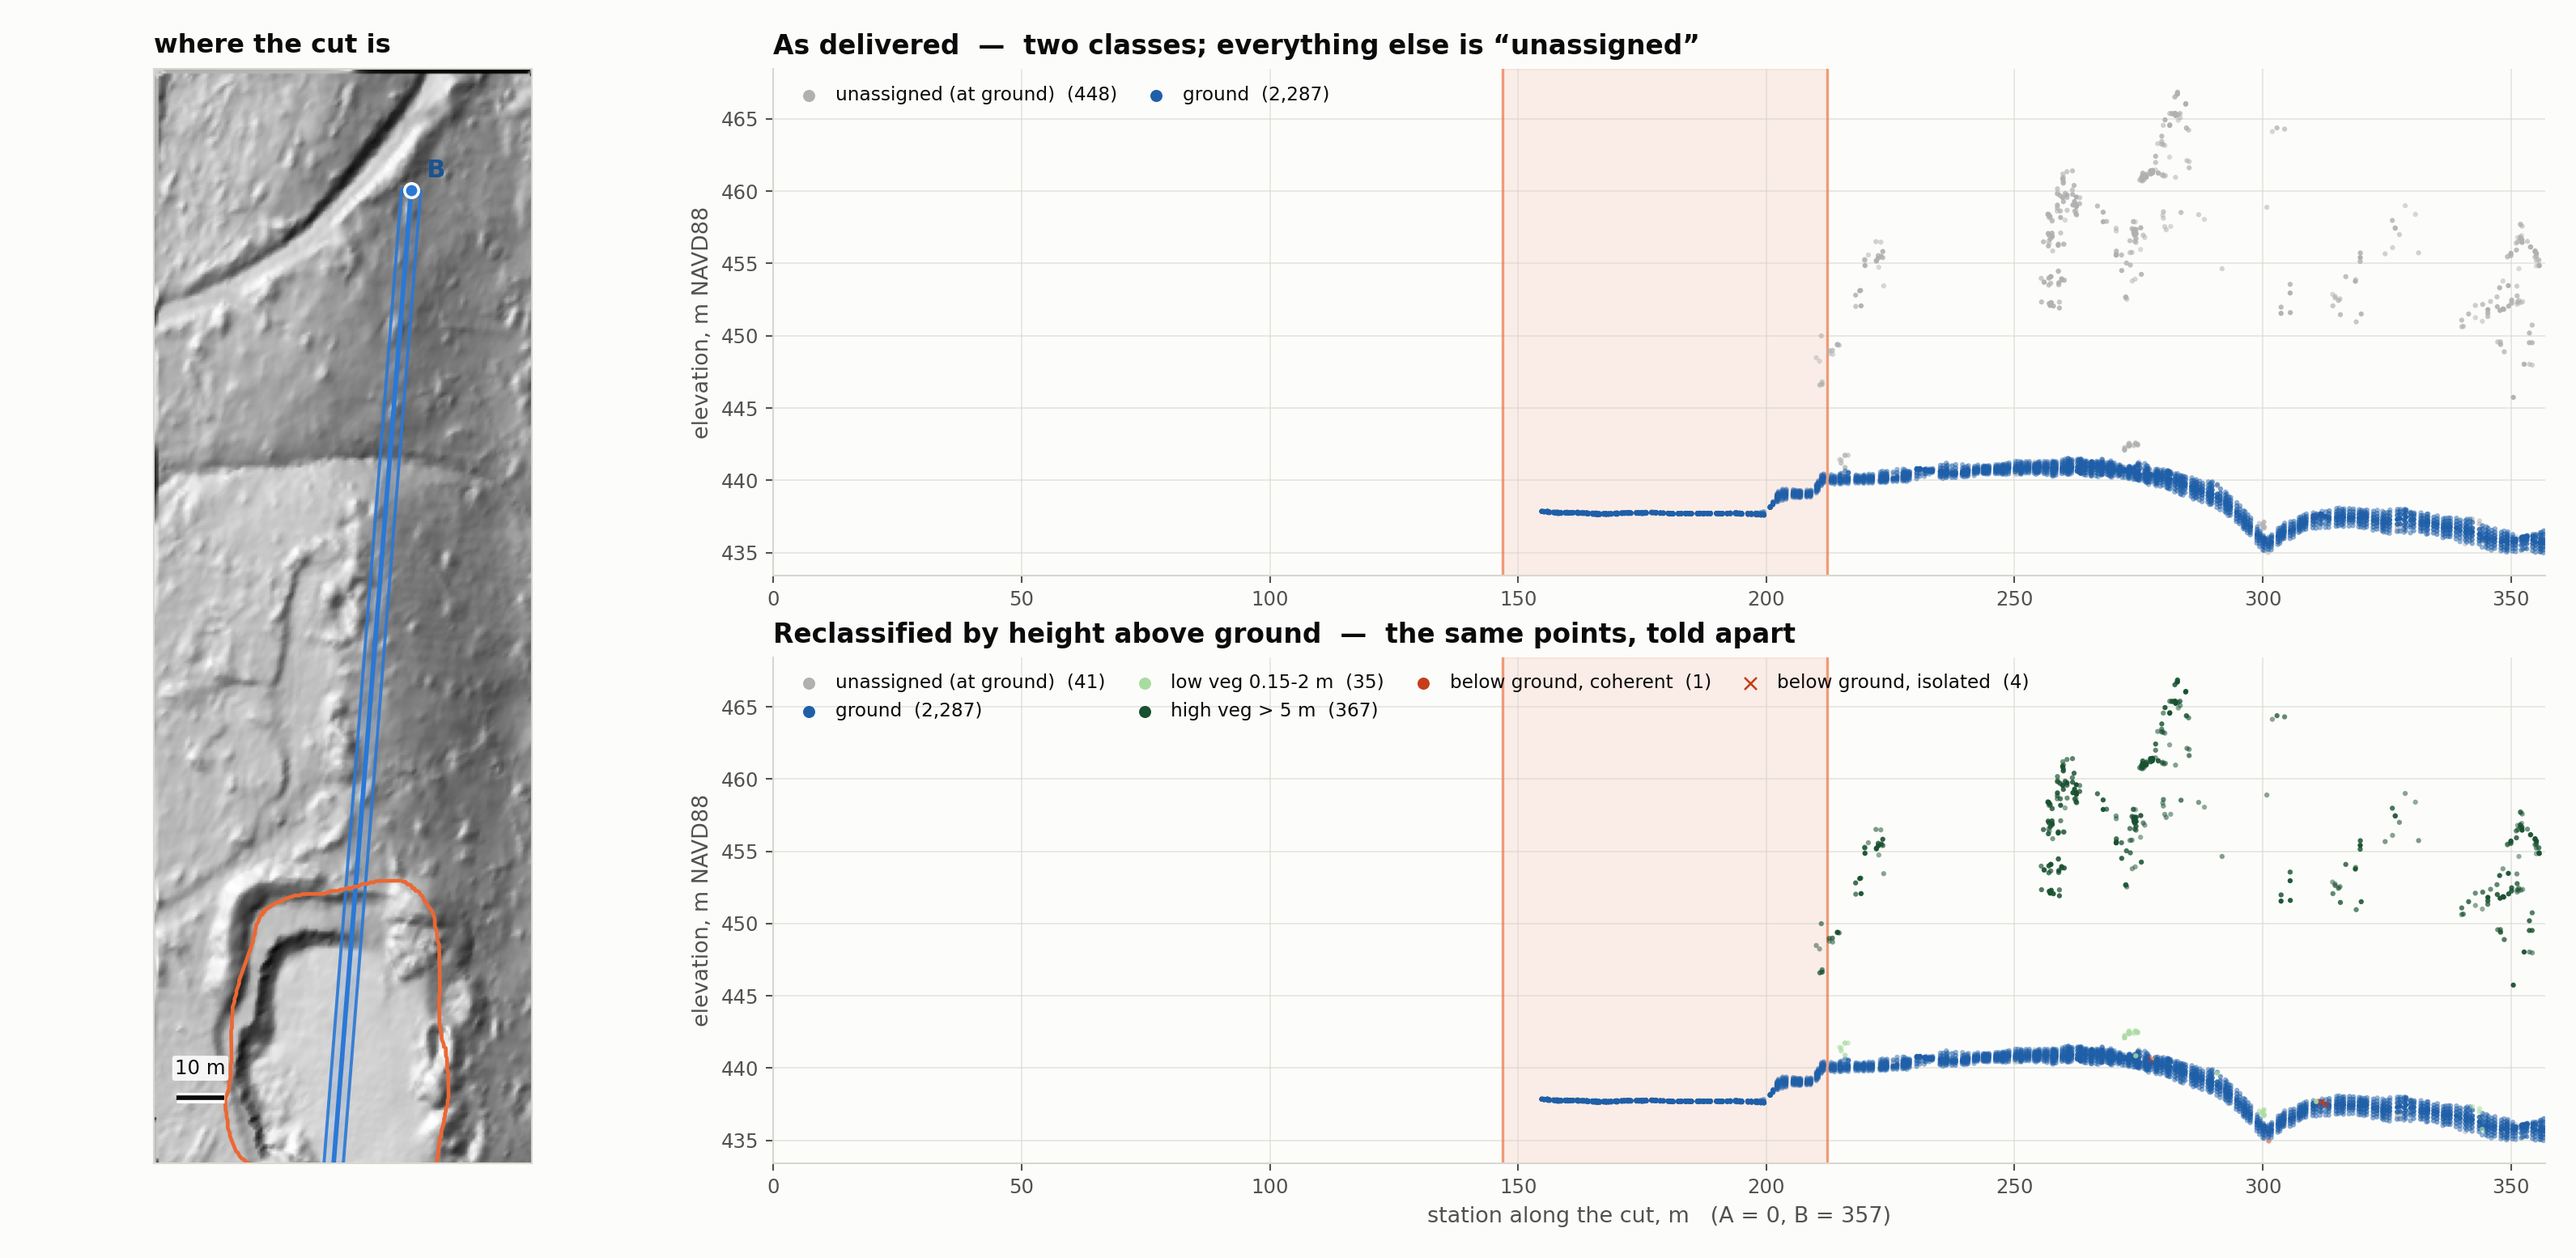
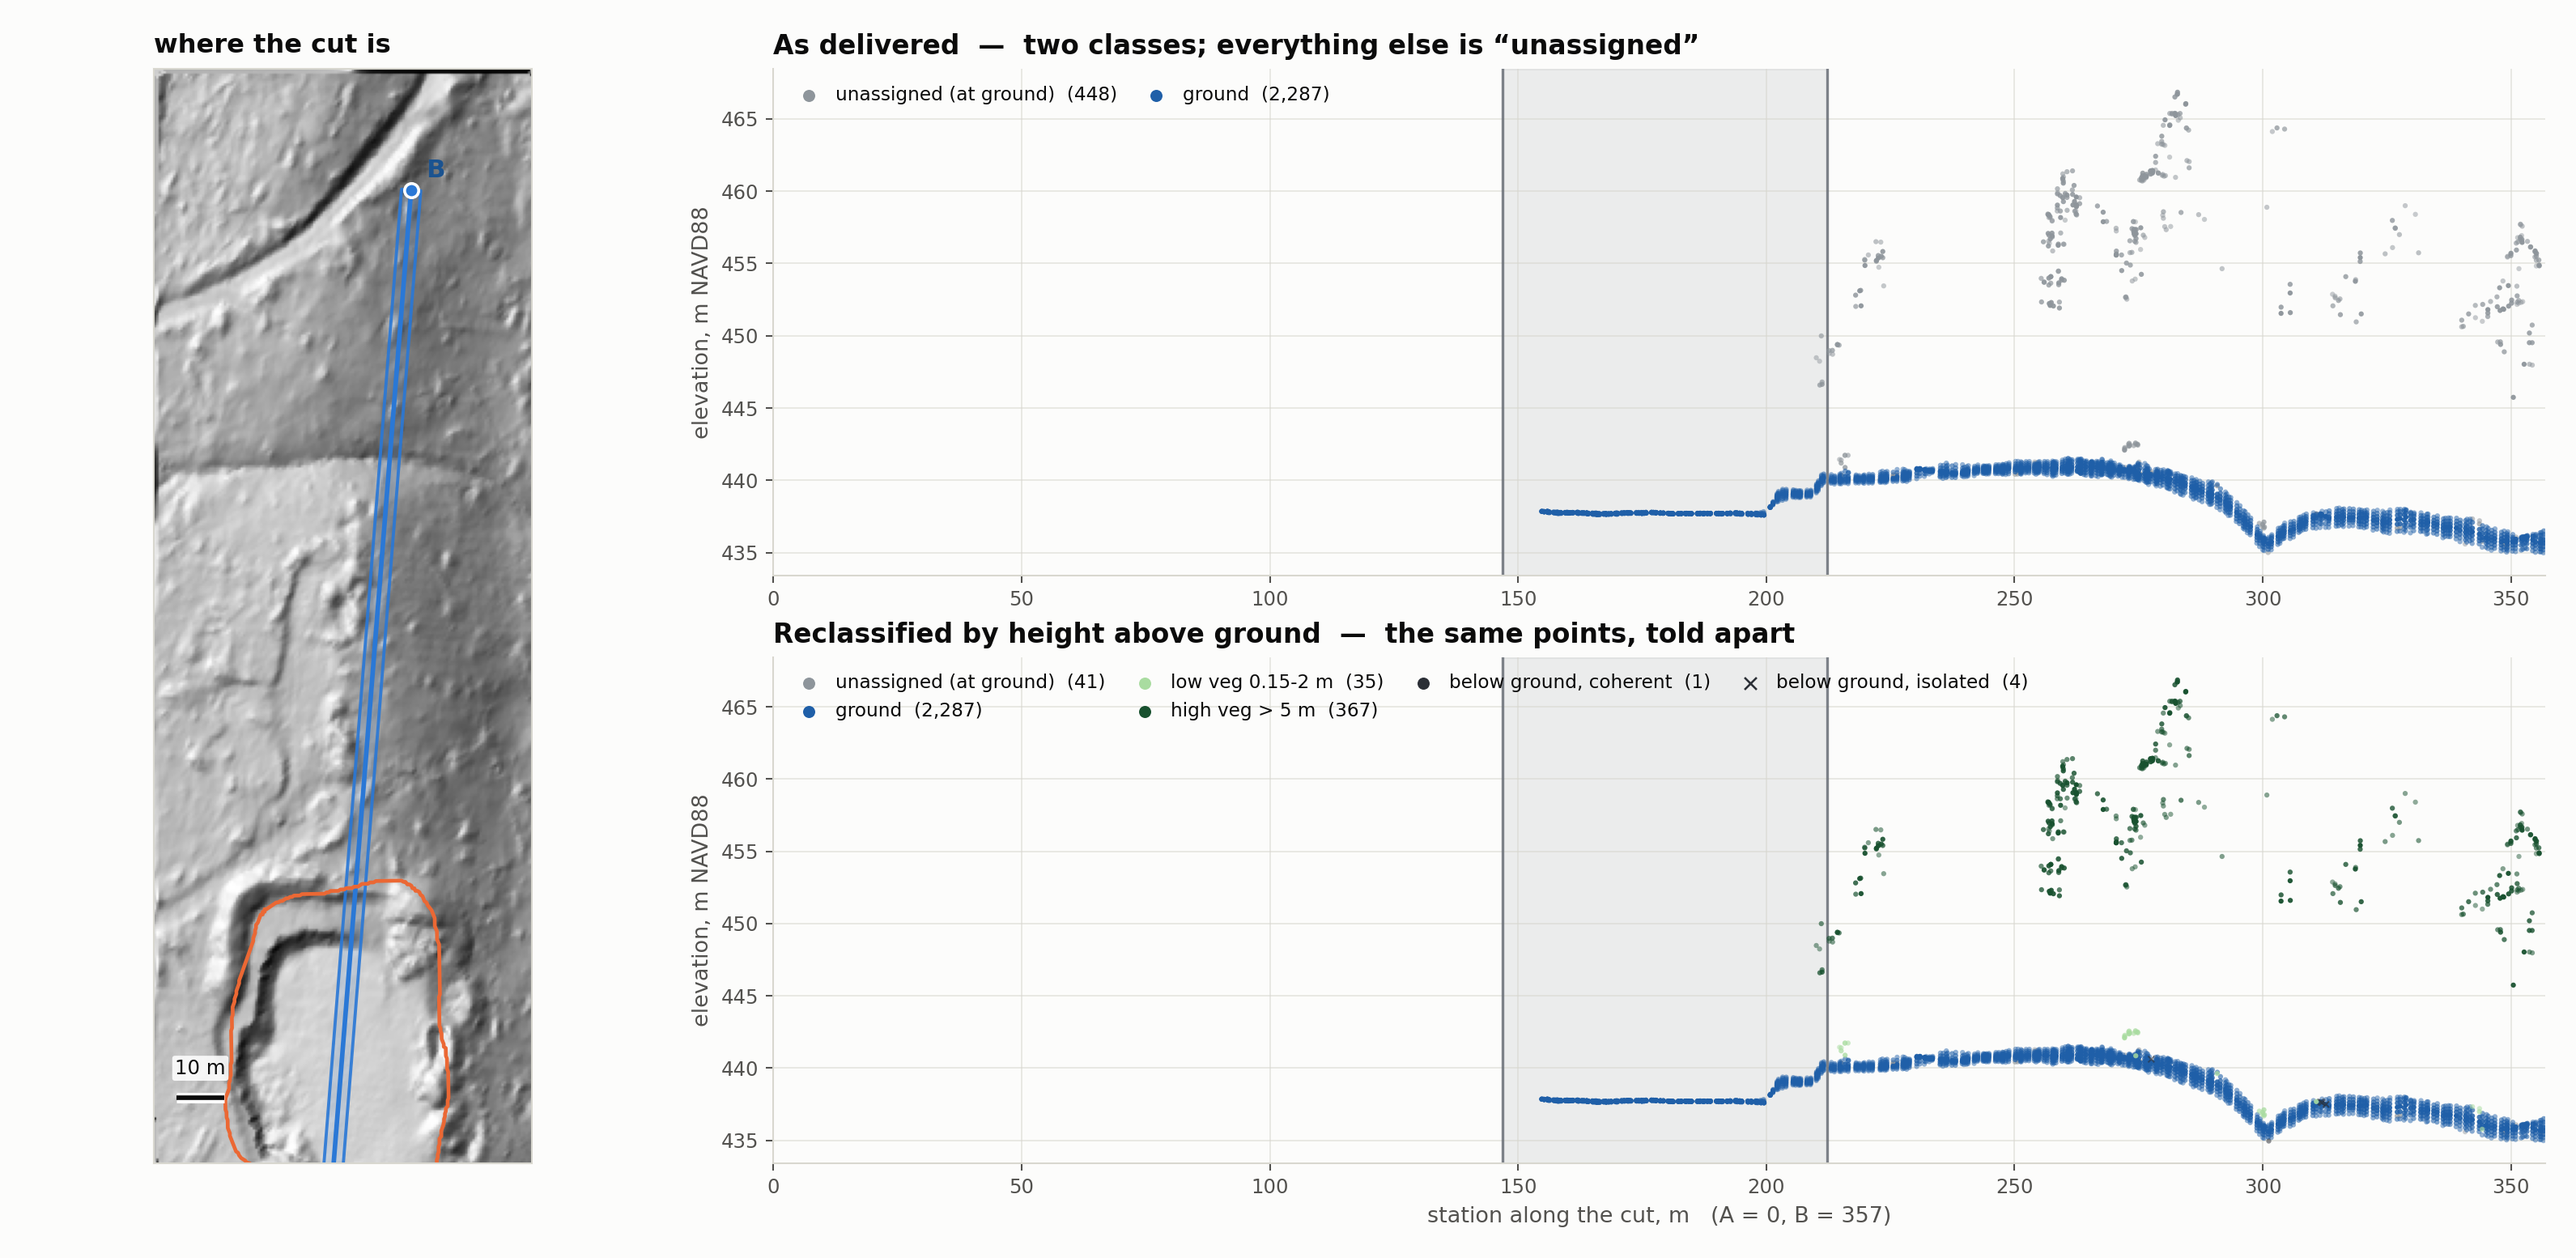
figures: redraw the classification sections and the cliff chart red/green safe
The classification cross-sections kept their green vegetation ramp and lost
the red instead: below-ground is now neutral charcoal #2B2F36, which has no
hue to confuse with anything and already carried its own marker shape. The
feature-extent band behind the points was also a red sitting beside green
vegetation, so it is neutral grey now; the locator-map outline stays orange,
since that panel is greyscale and holds no green.

Unassigned grey darkened #B0B0B0 -> #8E959B. Against the palest vegetation it
measured dE 13.0 in NORMAL vision, under the floor of 15 -- a separate defect
from the colourblind one and just as real.

The by-acquisition cliff chart picks up the same blue/amber/deep-red set.

Claude-Session: https://claude.ai/code/session_012wuDYDPJQj4QxbtZFmrfaB

diff --git a/notebooks/wellsight_v2/s7_analysis/_cross_section_classification.py b/notebooks/wellsight_v2/s7_analysis/_cross_section_classification.py
@@ -410,9 +410,12 @@ def _draw(code, A, B, L, u, n, s, o, d, keep, cls, args, subject, az, where,
         panels.append((ax[2], cls, titles[2]))
     for a, cc, title in panels:
         if where is not None:
-            a.axvspan(*where, color="#eb6834", alpha=0.10, zorder=0)
+            # neutral, not a hue: this band marks WHERE the feature is, and a
+            # red band beside green vegetation points is the one pair a
+            # protanope cannot separate (see the palette note above)
+            a.axvspan(*where, color="#5A6069", alpha=0.10, zorder=0)
             for xv in where:
-                a.axvline(xv, color="#eb6834", linewidth=1.3, alpha=0.6,
+                a.axvline(xv, color="#5A6069", linewidth=1.3, alpha=0.75,
                           zorder=1)
         for c in sorted(np.unique(cc)):
             k = cc == c
